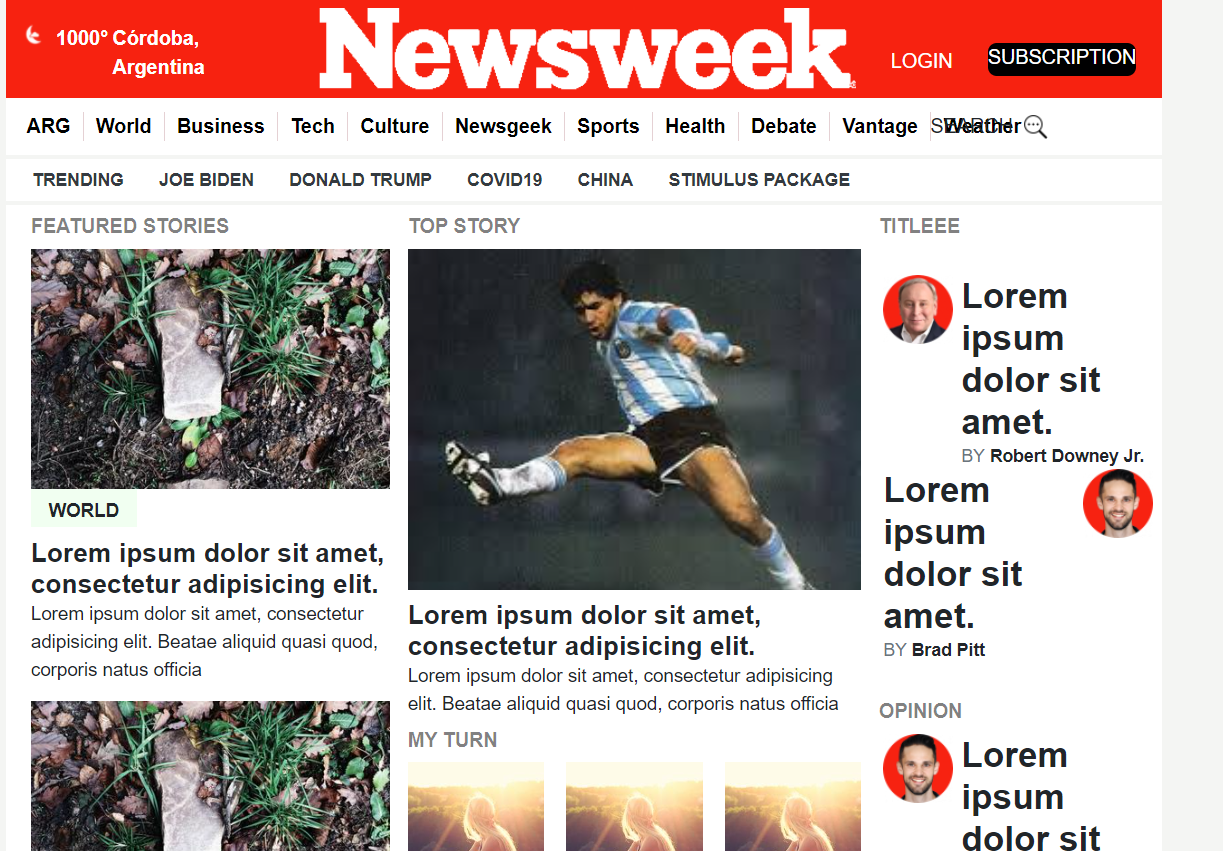
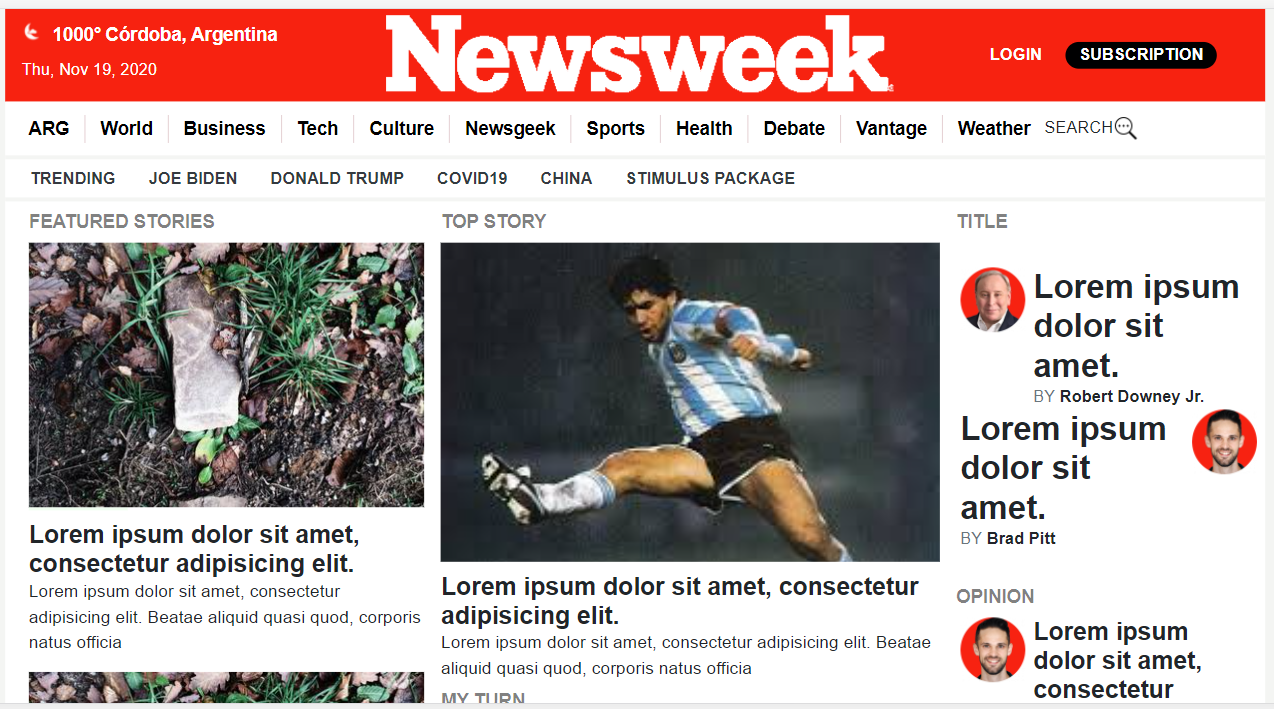
Review Fix, changing PR message

diff --git a/index.html b/index.html
@@ -32,19 +32,19 @@
         </div>
 
 
-        <div class="header-logo col-5 col-sm-6  justify-content-start justify-content-lg-center d-flex  ">
-          <!-- <div class="col-lg-5 col-md-6 col-sm-5 col-auto d-flex justify-content-lg-center "> -->
+        <div class="header-logo col-8 col-sm-6  justify-content-start justify-content-lg-center d-flex  ">
+
 
           <img src="./img/logo.png" alt="" class="img-fluid">
         </div>
 
 
-        <div class="header-buttons-RIGHTSIDE p-0 m-0 col-5  col-lg-5 col-xl-3 d-flex justify-content-around align-items-center">
+        <div class="header-buttons-RIGHTSIDE p-0 m-0 col-3 col-sm-5  col-lg-5 col-xl-3 d-flex justify-content-around align-items-center">
 
 
           <div class="d-flex">
 
-            <div class="LOGIN TEXTO header-buttons  align-items-center">
+            <div class="header-buttons  align-items-center">
               <a href="#" class="font-weight-bold d-none d-lg-flex flex-shrink-1 mr-3 btn--login hover-none border-none">LOGIN</a>
             </div>
 

diff --git a/css/style.css b/css/style.css
@@ -84,6 +84,7 @@ footer {
   height: 22px;
 }
 
+
 .header-logo > img {
   object-fit:scale-down;
   /* height: 90%;
@@ -305,9 +306,13 @@ font-size:2rem;
     width:10em;
     height:auto;
   }
+  /* .header-logo {
+    width:10em;
+    height:auto;
+  } */
   .header-logo > img {
-
-    width:5em;
+  
+    width:10em;
     height: auto;
 
 }
@@ -383,16 +388,11 @@ font-size:2rem;
   .header-logo > img {
 
     height:auto;
-    width:11em;
+    width:20em;
 
   }
 
 
-  /* .header-logo > img {
-    max-width: 80vh;
-    height: 4rem;
-    margin-right: 7rem;
-  } */
 
 }
 
